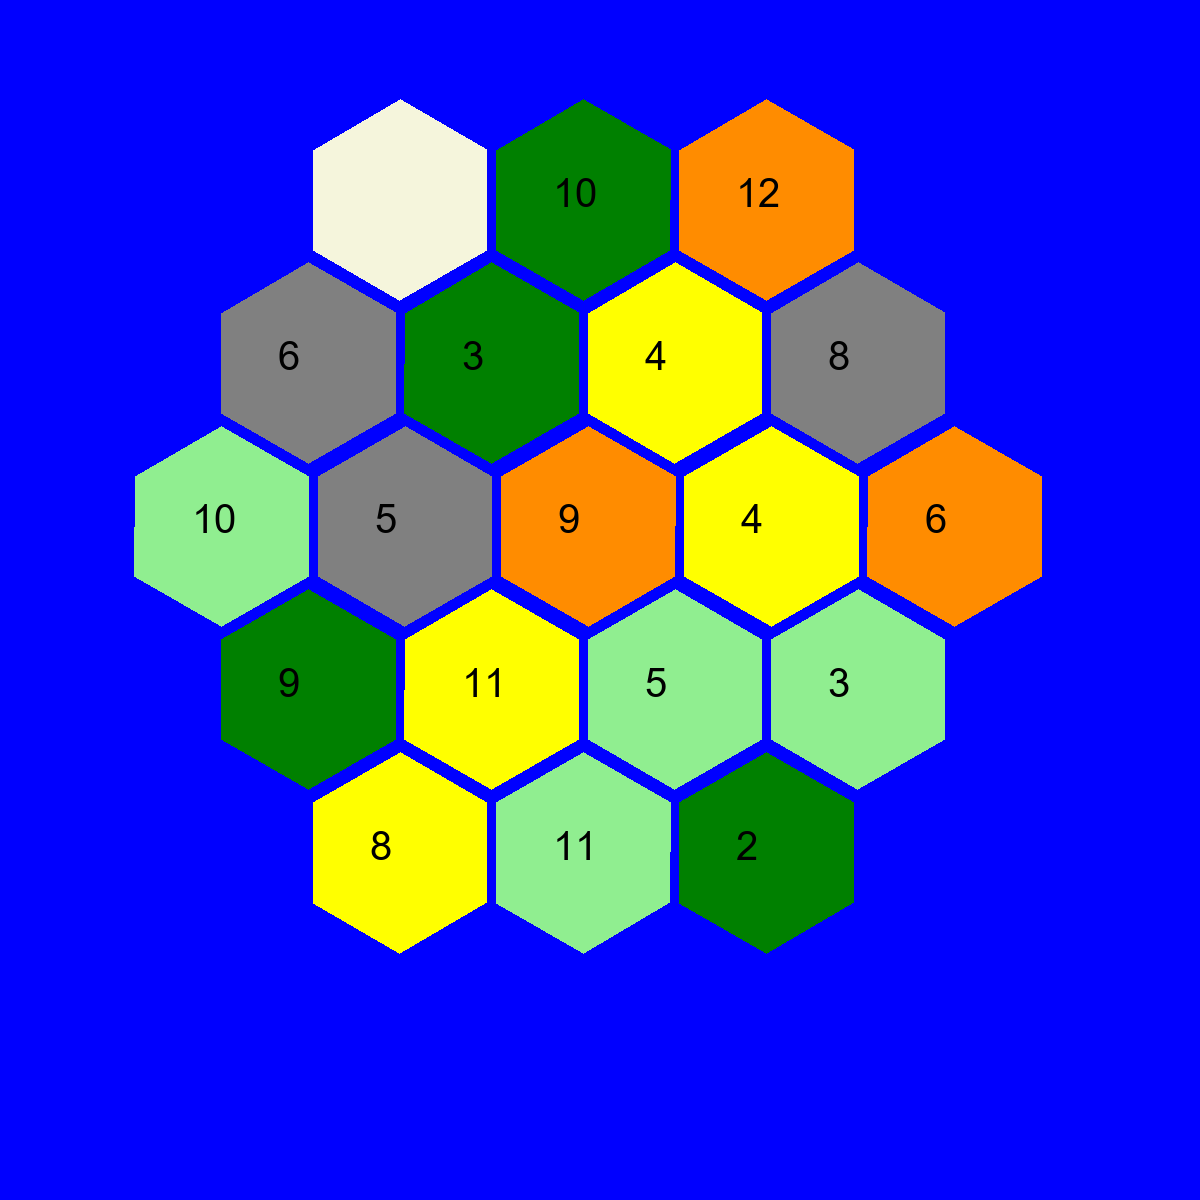
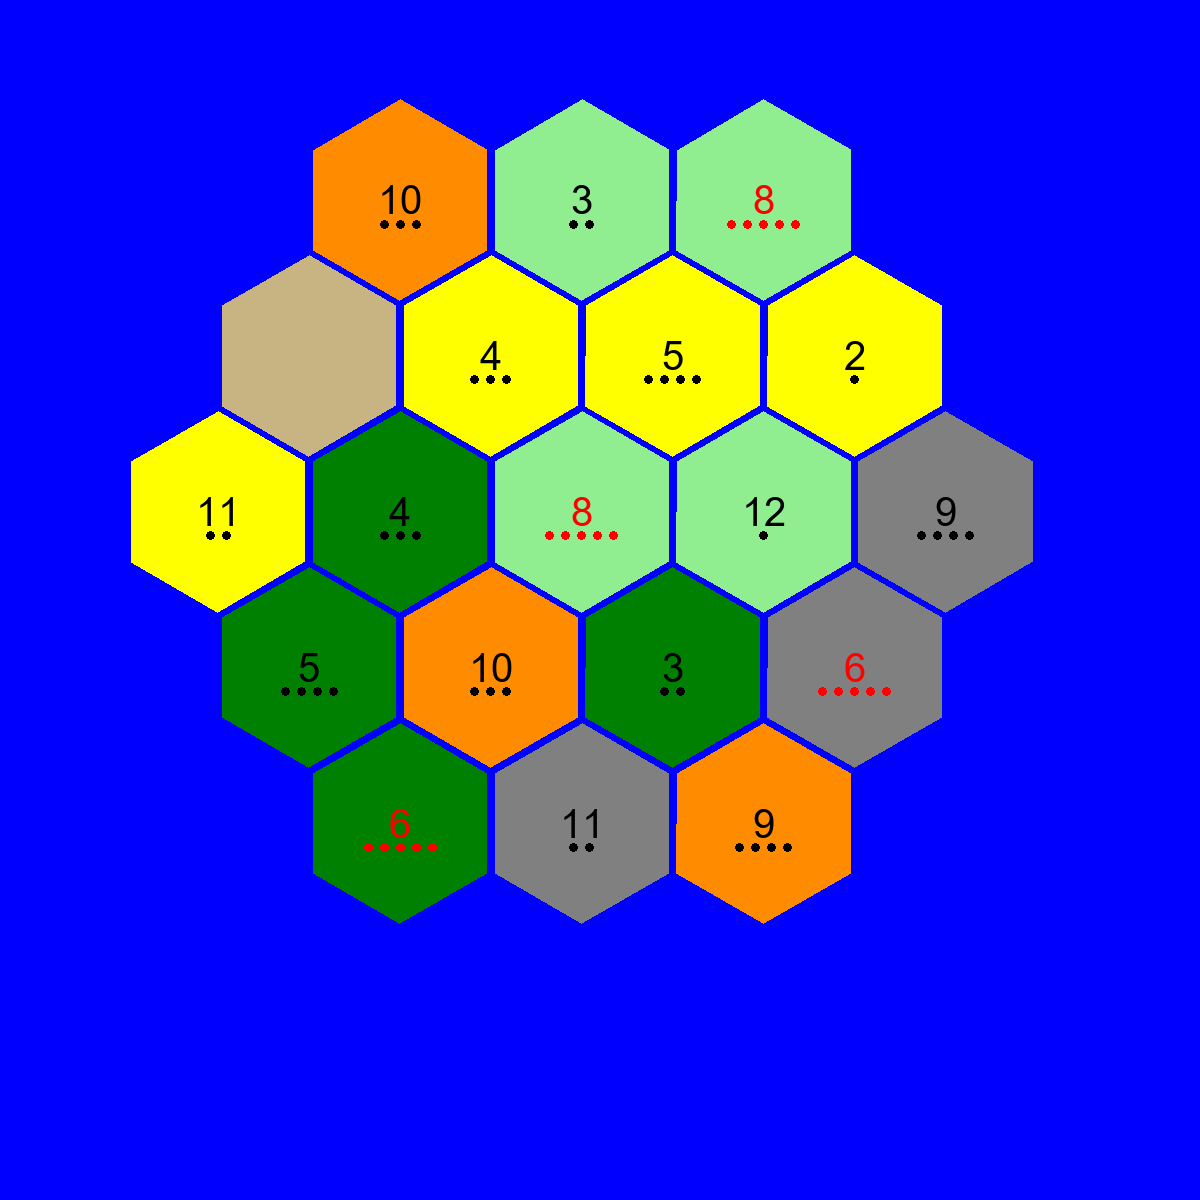
Made board gui look nicer

diff --git a/main.py b/main.py
@@ -26,6 +26,7 @@ num11_path = '11.png'
 num12_path = '12.png'
 
 tiles = []
+rarity_odds = [0, 0, 1, 2, 3, 4, 5, 0, 5, 4, 3, 2, 1, 0, 0]
 
 #----------------------------------------------------------------------------------------------------------------------------------------------------------
 # BOARD GENERATOR
@@ -66,7 +67,6 @@ def BoardViewer():
     rarities = []
     placement_spots = []
     rarity_points = [0] * 5
-    rarity_odds = [0, 0, 1, 2, 3, 4, 5, 0, 5, 4, 3, 2, 1, 0, 0]
     rarity_percentage = [0] * 5
 
     xDiff = 40
@@ -389,12 +389,43 @@ def hexagonMaker(new_tiles,side_length,center_x, center_y, i):
     elif(new_tiles[i][0]=='ore'):
         fill_color = 'gray'
     else:
-        fill_color = 'beige'
+        fill_color = (200, 180, 130)
 
     if(new_tiles[i][1] != 0):
         return(hexagon_vertices, fill_color, str(new_tiles[i][1]))
     else:
         return(hexagon_vertices, fill_color, "")
+    
+    
+def dotDrawer(x, y, number, draw):
+    dot_size = 8
+    
+    text_color = 'red' if number in ('6', '8') else 'black'
+
+    if number != '' and rarity_odds[eval(number)] == 1:
+        draw.ellipse([(x - dot_size*2 + dot_size*1.5, y + 20), 
+                  (x + dot_size - dot_size*2 + dot_size*1.5, y + dot_size + 20)],
+                 fill = text_color)
+    elif number != '' and rarity_odds[eval(number)] == 2:
+        for i in range(0, 2):
+            draw.ellipse([(x - dot_size*2*i + dot_size*.5, y + 20), 
+                  (x + dot_size - dot_size*2*i + dot_size*.5, y + dot_size + 20)],
+                 fill = text_color)
+    elif number != '' and rarity_odds[eval(number)] == 3:
+        for i in range(0, 3):
+            draw.ellipse([(x - dot_size*2*i + dot_size*1.5, y + 20), 
+                  (x + dot_size - dot_size*2*i + dot_size*1.5, y + dot_size + 20)],
+                 fill = text_color)
+    elif number != '' and rarity_odds[eval(number)] == 4:
+        for i in range(0, 4):
+            draw.ellipse([(x - dot_size*2*i + dot_size*2.5, y + 20), 
+                  (x + dot_size - dot_size*2*i + dot_size*2.5, y + dot_size + 20)],
+                 fill = text_color)
+    elif number != '' and rarity_odds[eval(number)] == 5:
+        for i in range(0, 5):
+            draw.ellipse([(x - dot_size*2*i + dot_size*3.5, y + 20), 
+                  (x + dot_size - dot_size*2*i + dot_size*3.5, y + dot_size + 20)],
+                 fill = text_color)
     
 
 def BoardGUI(new_tiles):
@@ -402,28 +433,54 @@ def BoardGUI(new_tiles):
     side_length = 100
     img = Image.new("RGB", (1200, 1200), "blue")
     draw = ImageDraw.Draw(img)
+    font = ImageFont.truetype("arial.ttf", 40)
     halfHexxy = side_length*math.sin(math.radians(60)) #half hex width
 
     for i in range (0,3):
-        verts,color,number = hexagonMaker(new_tiles,side_length,400+(10+2*halfHexxy)*i,200, i)
+        verts,color,number = hexagonMaker(new_tiles, side_length, 
+                                          400 + (2*halfHexxy + (halfHexxy/10)) * i, 
+                                          200, i)
         draw.polygon(verts, fill=color)
-        draw.text((400+(10+2*halfHexxy)*i-30, 200-30), number, font=ImageFont.truetype("arial.ttf", 40), fill='black')
+        text_color = 'red' if number in ('6', '8') else 'black'
+        draw.text((400 + (2*halfHexxy + (halfHexxy/10)) * i, 200), 
+                  number, anchor = 'mm', font = font, fill = text_color)
+        dotDrawer(400 + (2*halfHexxy + (halfHexxy/10)) * i, 200, number, draw)
     for i in range (0,4):
-        verts,color,number = hexagonMaker(new_tiles,side_length,(400-halfHexxy-5)+((10+2*halfHexxy)*i),200+2*(halfHexxy-5), (i+3))
+        verts,color,number = hexagonMaker(new_tiles, side_length, 
+                                          (400-halfHexxy-(halfHexxy/20)) + ((2*halfHexxy + (halfHexxy/10))*i), 
+                                          200+2*(halfHexxy-(halfHexxy/10)), (i+3))
         draw.polygon(verts, fill=color)
-        draw.text(((400-halfHexxy-5)+((10+2*halfHexxy)*i)-30, 200+2*(halfHexxy-5)-30), number, font=ImageFont.truetype("arial.ttf", 40), fill='black')
+        text_color = 'red' if number in ('6', '8') else 'black'
+        draw.text(((400-halfHexxy-(halfHexxy/20)) + ((2*halfHexxy + (halfHexxy/10))*i), 200+2*(halfHexxy-(halfHexxy/10))), 
+                  number, anchor = 'mm', font = font, fill=text_color)
+        dotDrawer((400-halfHexxy-(halfHexxy/20)) + ((2*halfHexxy + (halfHexxy/10))*i), 200+2*(halfHexxy-(halfHexxy/10)), number, draw)
     for i in range (0,5):
-        verts,color,number = hexagonMaker(new_tiles,side_length,(400-2*halfHexxy-5)+(10+2*halfHexxy)*i,200+4*(halfHexxy-5), (i+7))
+        verts,color,number = hexagonMaker(new_tiles, side_length, 
+                                          (400-2*halfHexxy-(halfHexxy/10)) + (2*halfHexxy + (halfHexxy/10))*i, 
+                                          200+4*(halfHexxy-(halfHexxy/10)), (i+7))
         draw.polygon(verts, fill=color)
-        draw.text(((400-2*halfHexxy-5)+((10+2*halfHexxy)*i)-30, 200+4*(halfHexxy-5)-30), number, font=ImageFont.truetype("arial.ttf", 40), fill='black')
+        text_color = 'red' if number in ('6', '8') else 'black'
+        draw.text(((400-2*halfHexxy-(halfHexxy/10)) + (2*halfHexxy + (halfHexxy/10))*i, 200+4*(halfHexxy-(halfHexxy/10))), 
+                  number, anchor = 'mm', font = font, fill=text_color)
+        dotDrawer((400-2*halfHexxy-(halfHexxy/10)) + (2*halfHexxy + (halfHexxy/10))*i, 200+4*(halfHexxy-(halfHexxy/10)), number, draw)
     for i in range (0,4):
-        verts,color,number = hexagonMaker(new_tiles,side_length,(400-halfHexxy-5)+(10+2*halfHexxy)*i,200+6*(halfHexxy-5), (i+12))
+        verts,color,number = hexagonMaker(new_tiles, side_length, 
+                                          (400-halfHexxy-(halfHexxy/20))+(2*halfHexxy + (halfHexxy/10))*i, 
+                                          200+6*(halfHexxy-(halfHexxy/10)), (i+12))
         draw.polygon(verts, fill=color)
-        draw.text(((400-halfHexxy-5)+((10+2*halfHexxy)*i)-30, 200+6*(halfHexxy-5)-30), number, font=ImageFont.truetype("arial.ttf", 40), fill='black')
+        text_color = 'red' if number in ('6', '8') else 'black'
+        draw.text(((400-halfHexxy-(halfHexxy/20))+(2*halfHexxy + (halfHexxy/10))*i, 200+6*(halfHexxy-(halfHexxy/10))), 
+                  number, anchor = 'mm', font = font, fill=text_color)
+        dotDrawer((400-halfHexxy-(halfHexxy/20))+(2*halfHexxy + (halfHexxy/10))*i, 200+6*(halfHexxy-(halfHexxy/10)), number, draw)
     for i in range (0,3):
-        verts,color,number = hexagonMaker(new_tiles,side_length,400+(10+2*halfHexxy)*i,200+8*(halfHexxy-5), (i+16))
+        verts,color,number = hexagonMaker(new_tiles, side_length, 
+                                          400+(2*halfHexxy + (halfHexxy/10))*i, 
+                                          200+8*(halfHexxy-(halfHexxy/10)), (i+16))
         draw.polygon(verts, fill=color)
-        draw.text((400+(10+2*halfHexxy)*i-30, 200+8*(halfHexxy-5)-30), number, font=ImageFont.truetype("arial.ttf", 40), fill='black')
+        text_color = 'red' if number in ('6', '8') else 'black'
+        draw.text((400+(2*halfHexxy + (halfHexxy/10))*i, 200+8*(halfHexxy-(halfHexxy/10))), 
+                  number, anchor = 'mm', font = font, fill=text_color)
+        dotDrawer(400+(2*halfHexxy + (halfHexxy/10))*i, 200+8*(halfHexxy-(halfHexxy/10)), number, draw)
     img.save("generated_image.png")
 
 
